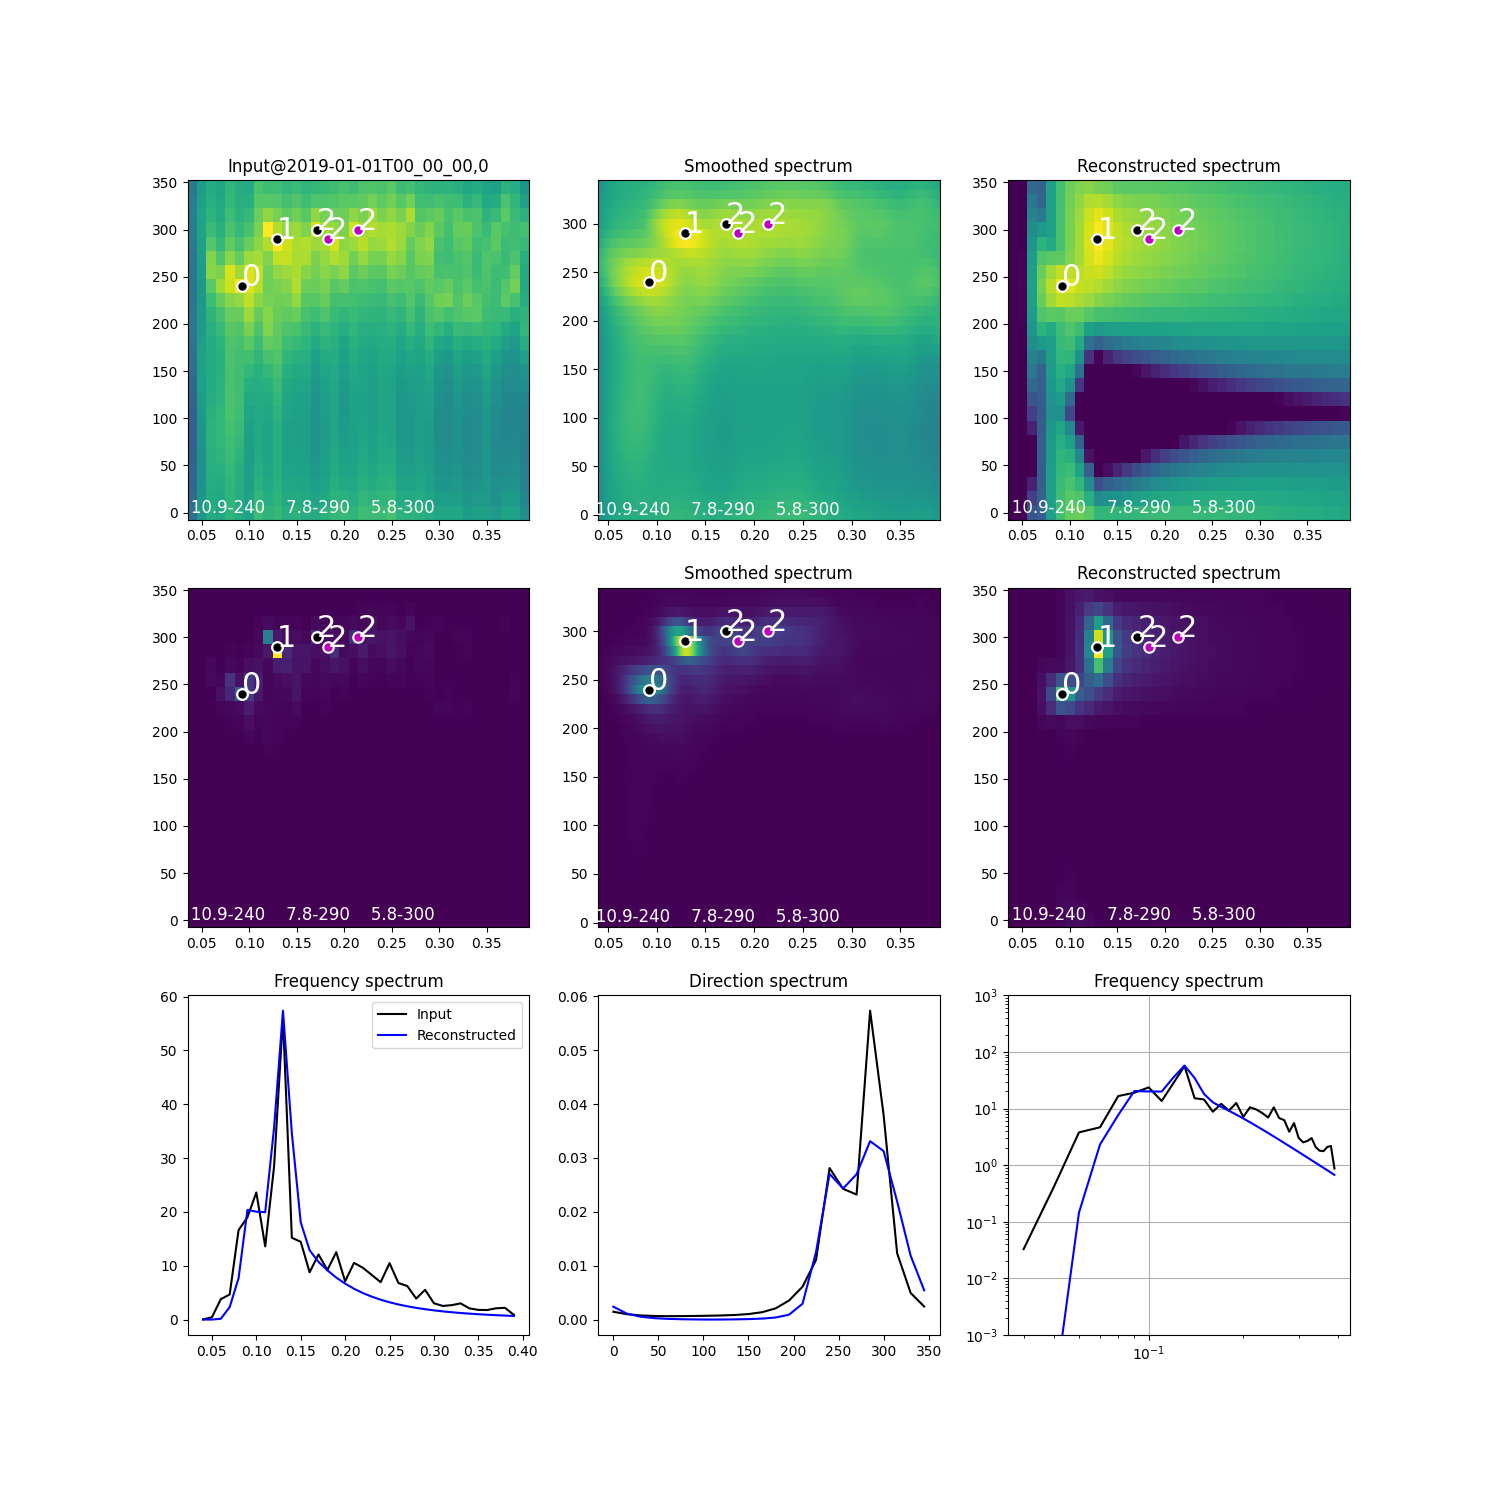
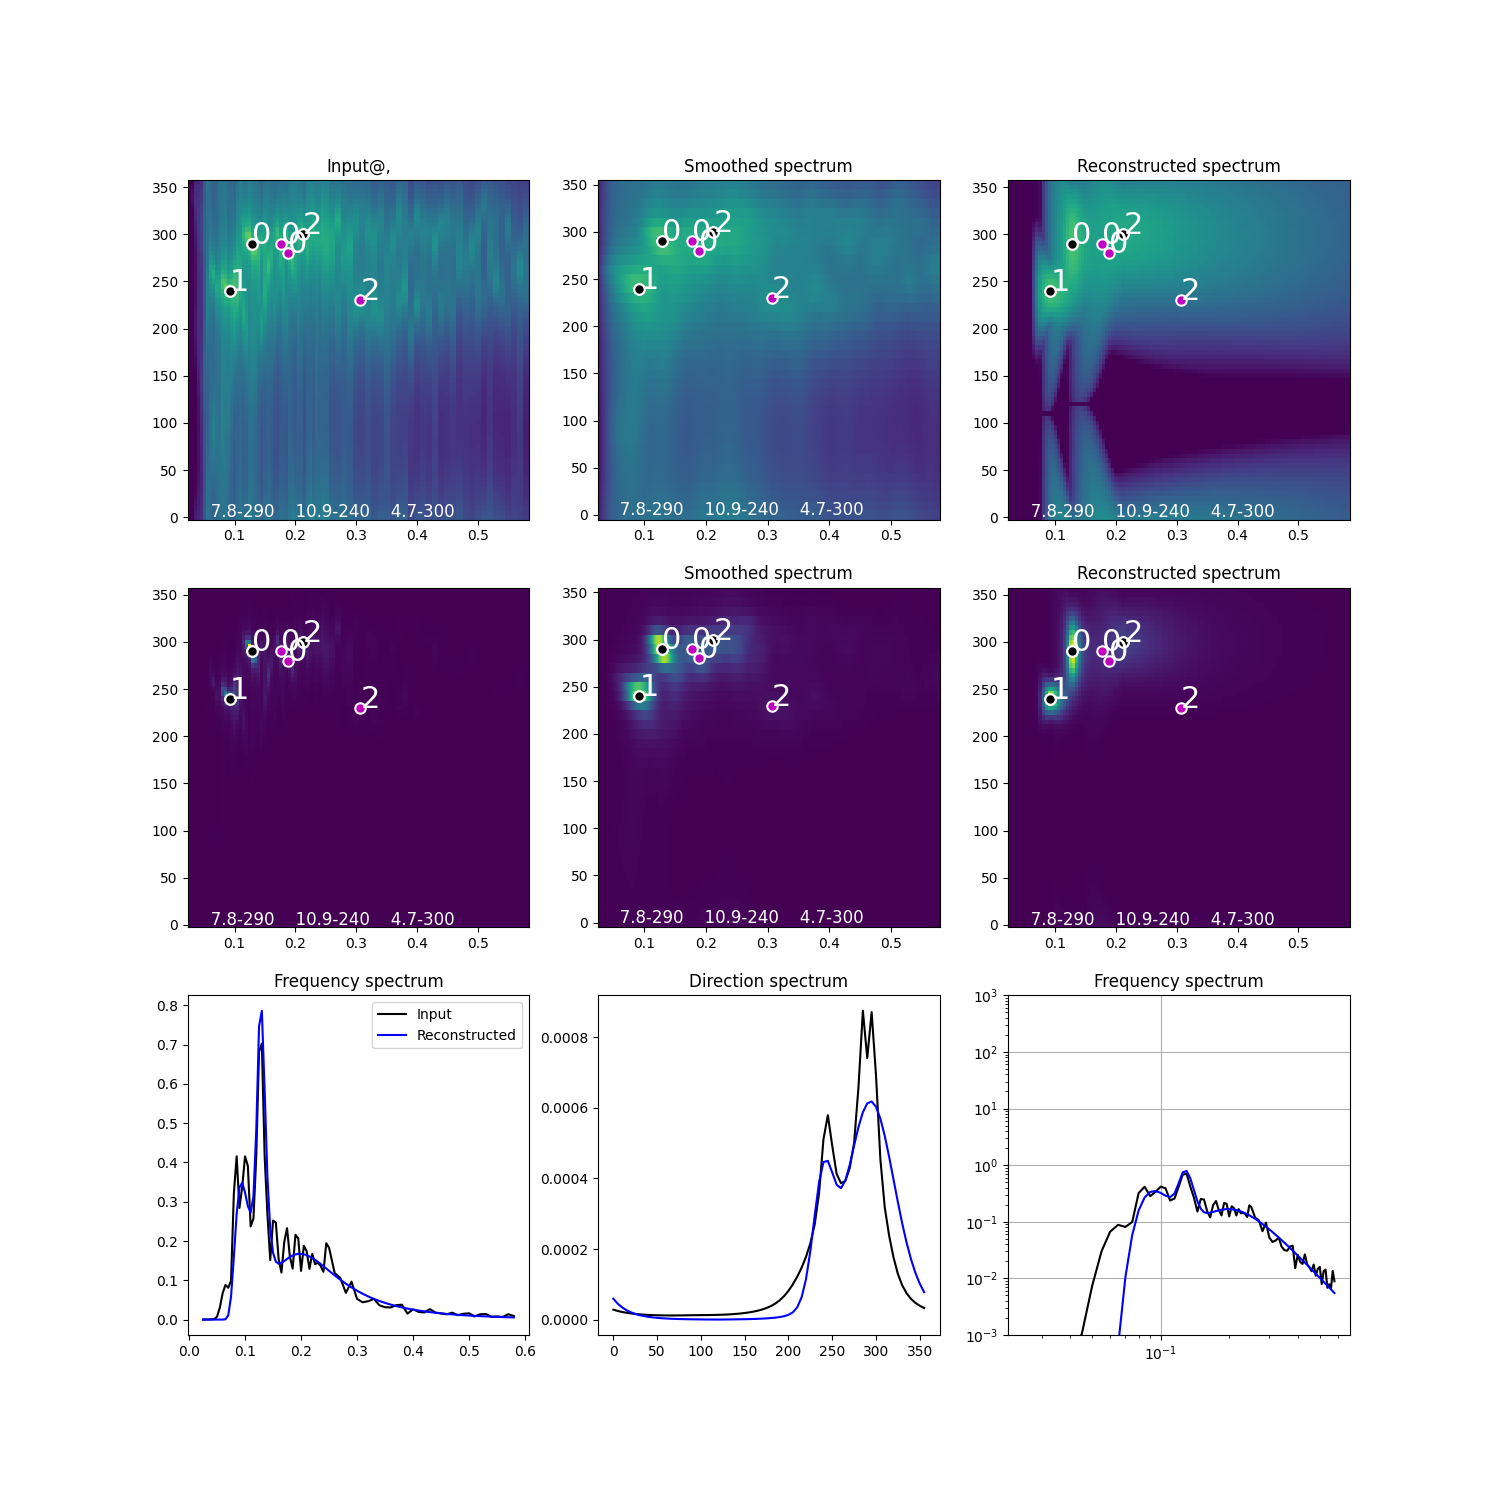
Updated readme with test output and new example image from test

diff --git a/README.md b/README.md
@@ -50,6 +50,45 @@ print(specParms, fitStatus)
 
 Check out the test.py script as an example with data.
 
+```
+$ python test.py
+running reducePeaksClustering 6,3
+Optimization terminated successfully.
+         Current function value: 0.082135
+         Iterations: 1082
+         Function evaluations: 1733
+[[0.5859285326910995, 4.716981132075468, 1.0000053476007895, 0.07, 0.09, -4.234276488479486, 300.0, 4.716981132075468], [0.6129423521749234, 7.812499999999995, 5.970526837658344, 0.07, 0.09, -5.140143260428807, 290.0, 7.812499999999995], [0.4047506936099149, 10.869565217391298, 1.0000041524068202, 0.07, 0.09, -15.401874257914326, 240.0, 10.869565217391298]] [True, 0.08213522716322981, 1733]
+===== PARTITION =====
+Hs =  0.5859285326910995
+Tp =  4.716981132075468
+Gamma =  1.0000053476007895
+Sigma A =  0.07
+Sigma B =  0.09
+Tail Exp =  -4.234276488479486
+ThetaP =  300.0
+===== PARTITION =====
+Hs =  0.6129423521749234
+Tp =  7.812499999999995
+Gamma =  5.970526837658344
+Sigma A =  0.07
+Sigma B =  0.09
+Tail Exp =  -5.140143260428807
+ThetaP =  290.0
+===== PARTITION =====
+Hs =  0.4047506936099149
+Tp =  10.869565217391298
+Gamma =  1.0000041524068202
+Sigma A =  0.07
+Sigma B =  0.09
+Tail Exp =  -15.401874257914326
+ThetaP =  240.0
+===== FITTING OUTCOME =====
+Fitting successful:  True
+RMS error of fit:  0.08213522716322981
+Number of function evalutions:  1733
+```
+
+
 An example of the input and output reconstructed spectrum are shown in the image
 below.
 
